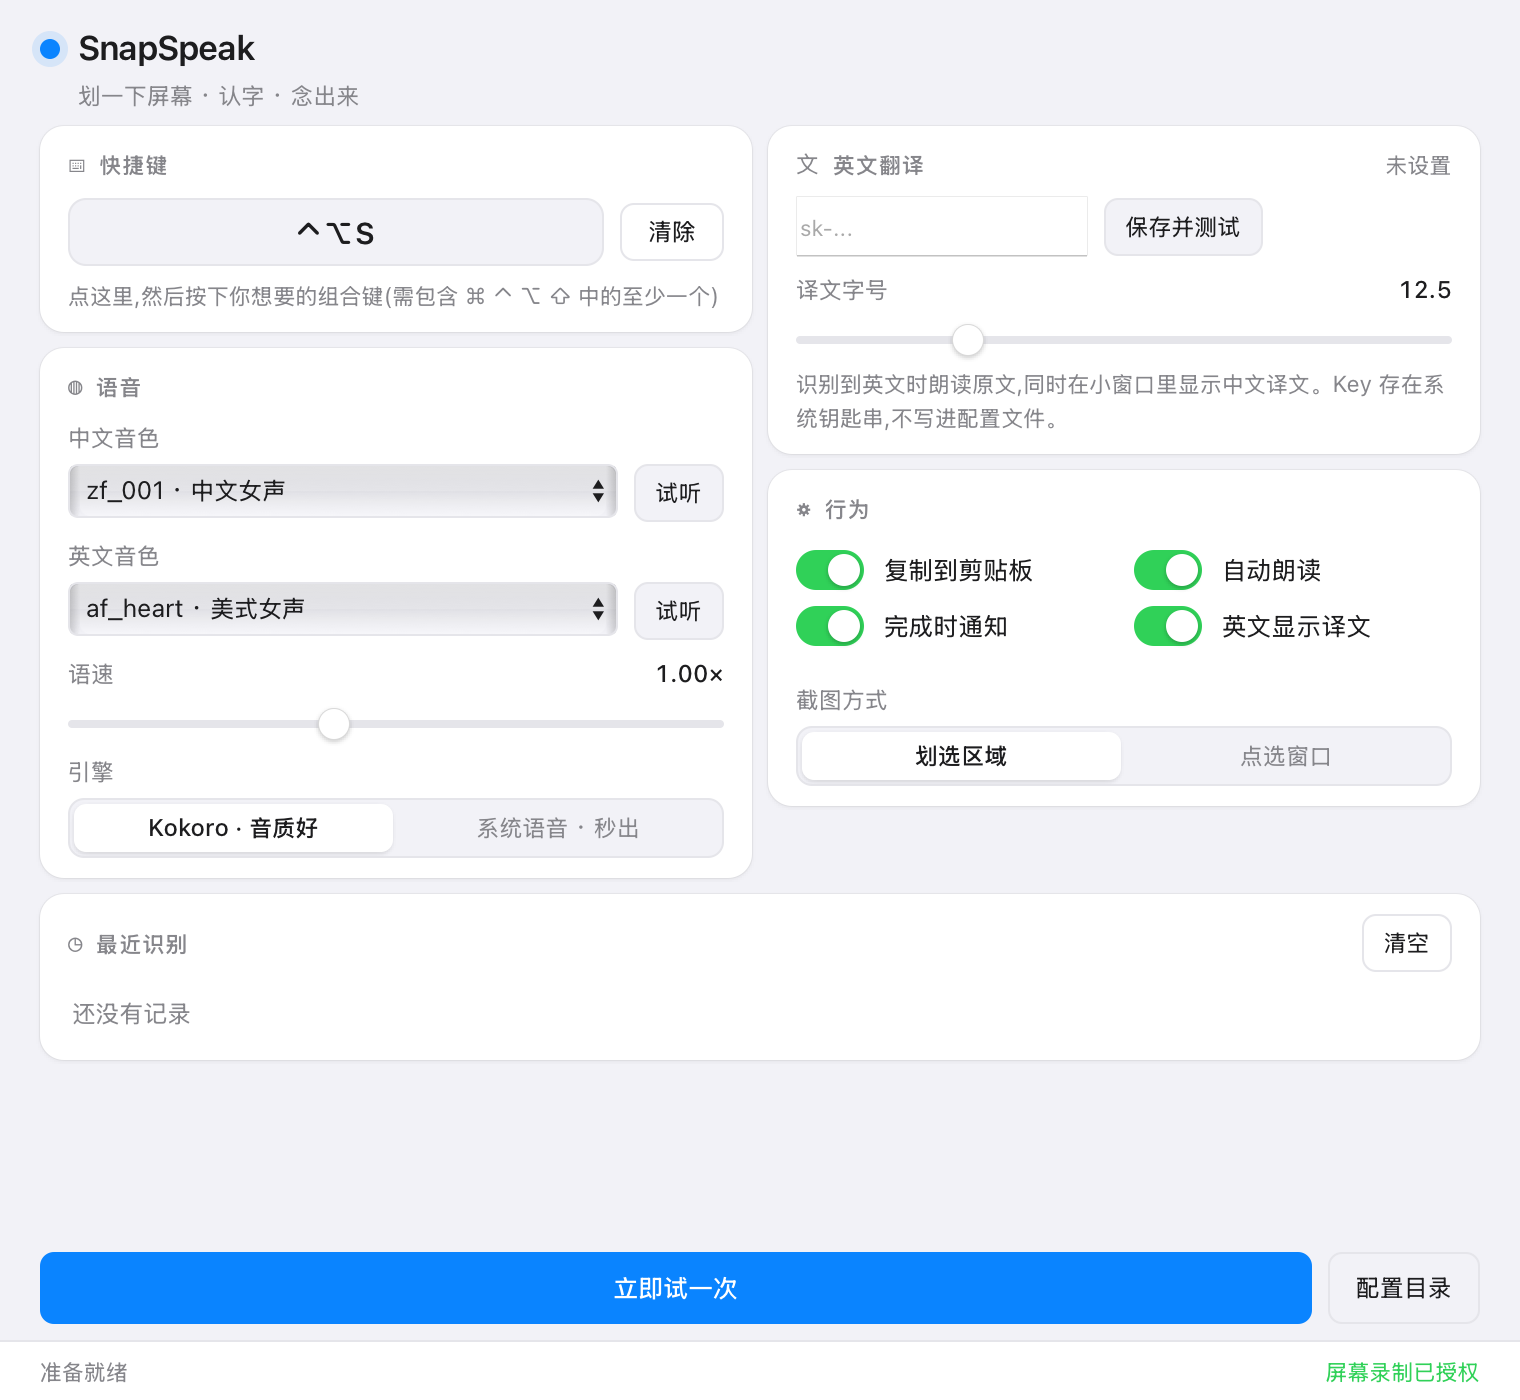
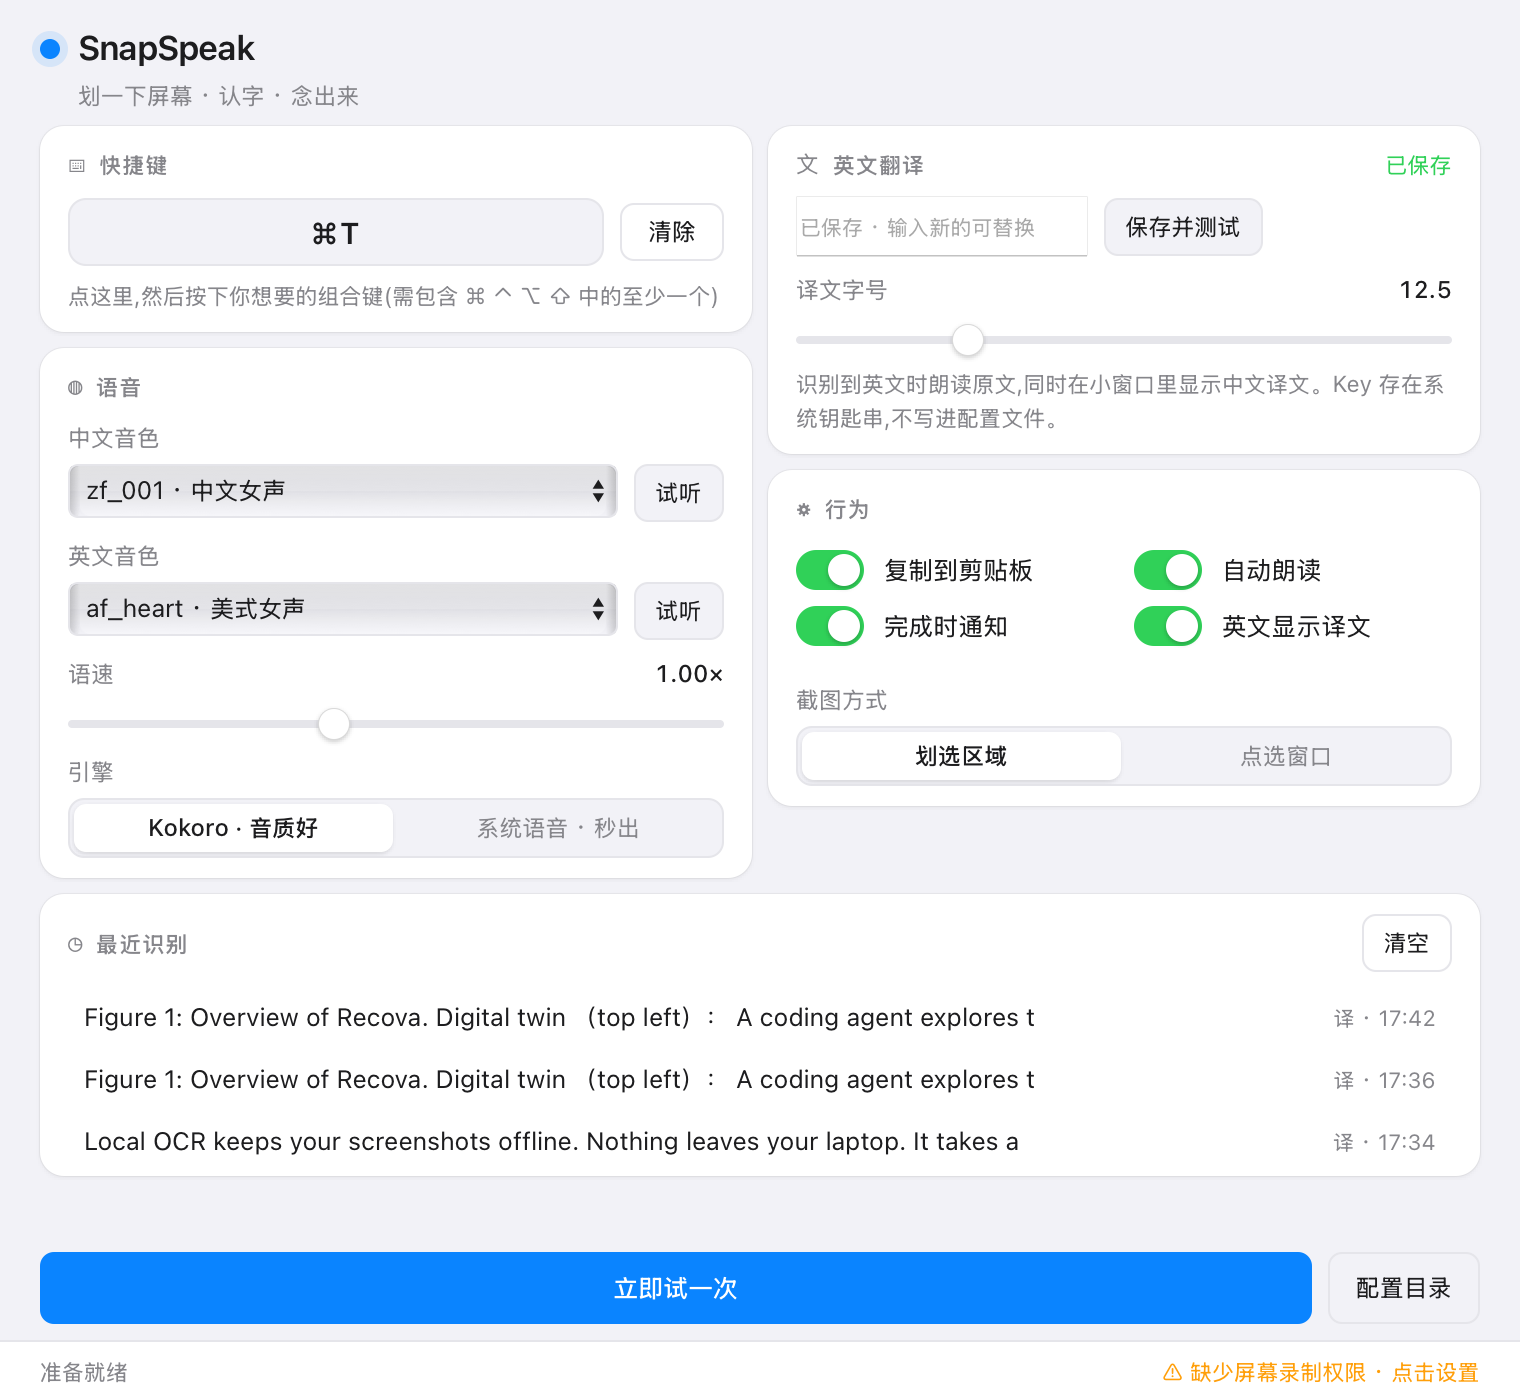
feat: 修复 π 等希腊字母,并支持自定义替换表
Vision 的 supportedRecognitionLanguages 里没有希腊语模型,
π 会被强行塞成拉丁字母,而且结果随字号而变:
    斜体 34px -> "no.5"      其他 -> "T0.5" / "to.5" / "70.5"
放大到 4x 无效,属于模型能力缺失。

好在 eSpeak 认识希腊字母(π -> "pi",α -> "alpha"),
只要把字符修回来,TTS 就能念对。

- textfix: 新增 repair_greek(),按「字母紧跟 .数字」这种上下文修
  T0.5 / to.5 / no.5 -> π0.5,TO( / no( -> π0(;
  "70.5" 这类纯数字与真实数值无法区分,不做处理
- 新增设置项 fix_greek(默认开)与界面开关
- 新增 text_replacements 自定义替换表,设置里一行一条 `原文=>替换`,
  用于内置规则覆盖不到的情况(如独立的 "no"、人名的 OCR 错字)
- 设置窗口加「识别修正」卡片,按实测内容高度重新定尺寸(760x790)

验证:内置规则 no.5->π0.5、T0.5->π0.5;
TO DO list / the T0 layer / I went to. Then 均不受影响;
自定义规则可把剩余的 "Unlike no," 修成 "Unlike π0,"。

diff --git a/ui/app.js b/ui/app.js
@@ -96,7 +96,29 @@ function render() {
   fillSelect(document.getElementById("voice_zh"), S.voices_zh || [], s.voice_zh);
   fillSelect(document.getElementById("voice_en"), S.voices_en || [], s.voice_en);
 
-  // 译文字号
+  // 自定义替换
+  const trEl = document.getElementById("text_replacements");
+  if (trEl && document.activeElement !== trEl) {
+    trEl.value = (s.text_replacements || [])
+      .map((p) => (p && p.length >= 2 ? `${p[0]}=>${p[1]}` : ""))
+      .filter(Boolean).join("\n");
+  }
+
+  // 自定义替换
+const trBox = document.getElementById("text_replacements");
+if (trBox) {
+  trBox.onchange = () => {
+    const pairs = trBox.value.split("\n").map((l) => l.trim()).filter(Boolean)
+      .map((l) => {
+        const i = l.indexOf("=>");
+        return i > 0 ? [l.slice(0, i).trim(), l.slice(i + 2).trim()] : null;
+      }).filter(Boolean);
+    trBox.value = pairs.map((p) => `${p[0]}=>${p[1]}`).join("\n");
+    save({ text_replacements: pairs });
+  };
+}
+
+// 译文字号
   const fs = document.getElementById("hud_font_size");
   if (fs) {
     fs.value = s.hud_font_size ?? 12.5;
@@ -125,6 +147,8 @@ function render() {
 
   // 开关
   document.getElementById("translate_en").checked = s.translate_en !== false;
+  const fg = document.getElementById("fix_greek");
+  if (fg) fg.checked = s.fix_greek !== false;
   document.getElementById("copy_to_clipboard").checked = !!s.copy_to_clipboard;
   document.getElementById("auto_play").checked = !!s.auto_play;
   document.getElementById("notify").checked = !!s.notify;
@@ -290,7 +314,7 @@ for (const id of ["engine", "capture_mode"]) {
 }
 
 // 开关
-for (const id of ["copy_to_clipboard", "auto_play", "notify", "translate_en"]) {
+for (const id of ["copy_to_clipboard", "auto_play", "notify", "translate_en", "fix_greek"]) {
   document.getElementById(id).onchange = (e) => save({ [id]: e.target.checked });
 }
 

diff --git a/ui/style.css b/ui/style.css
@@ -117,6 +117,17 @@ select {
   padding: 0 8px; font: inherit; font-size: 12.5px; cursor: pointer;
 }
 
+textarea {
+  width: 100%; height: 50px; resize: none;
+  border-radius: 7px; border: 1px solid var(--line);
+  background: var(--bg); color: var(--text);
+  padding: 6px 8px; font: inherit; font-size: 12px; line-height: 1.4;
+  font-family: ui-monospace, "SF Mono", Menlo, monospace;
+  outline: none; user-select: text;
+}
+textarea:focus { border-color: var(--accent); }
+textarea::placeholder { color: var(--muted); font-family: inherit; }
+
 .field input[type=password] {
   flex: 1; height: 27px; border-radius: 7px;
   border: 1px solid var(--line); background: var(--bg); color: var(--text);
@@ -206,7 +217,7 @@ input[type=range]::-webkit-slider-thumb {
 .actionsbar .primary { flex: 1; height: 36px; }
 .actionsbar .ghost { height: 36px; }
 
-.history { display: flex; flex-direction: column; gap: 1px; max-height: 84px; overflow-y: auto; }
+.history { display: flex; flex-direction: column; gap: 1px; max-height: 60px; overflow-y: auto; }
 .history::-webkit-scrollbar { width: 0; }
 .history .item {
   display: flex; align-items: center; gap: 8px;

diff --git a/ui/index.html b/ui/index.html
@@ -98,6 +98,7 @@
         <label class="toggle"><input type="checkbox" id="auto_play"><span>自动朗读</span></label>
         <label class="toggle"><input type="checkbox" id="notify"><span>完成时通知</span></label>
         <label class="toggle"><input type="checkbox" id="translate_en"><span>英文显示译文</span></label>
+        <label class="toggle"><input type="checkbox" id="fix_greek"><span>修正 π 符号</span></label>
       </div>
 
       <div class="field" style="margin-top:14px">
@@ -111,6 +112,14 @@
 
     </div>
    </div>
+
+    <!-- 识别修正 -->
+    <section class="card">
+      <div class="card-head"><span class="ico">✎</span><h2>识别修正</h2></div>
+      <textarea id="text_replacements" rows="2" spellcheck="false"
+        placeholder="no.5=>π0.5&#10;thcir=>their"></textarea>
+      <p class="hint">一行一条,格式 <b>原文=&gt;替换</b>。OCR 认错的符号、人名都可以在这里兜底。</p>
+    </section>
 
     <!-- 最近 -->
     <section class="card">

diff --git a/textfix.py b/textfix.py
@@ -104,10 +104,54 @@ def _merge_hyphen(prev: str, nxt: str) -> str:
     return head + nxt                              # 保底:去掉连字符
 
 
-def clean_ocr_text(text: str) -> str:
+# ---------------------------------------------------------------- 希腊字母
+# Vision 没有希腊语模型(supportedRecognitionLanguages 里没有 el-GR),
+# π 一类符号会被强行塞成拉丁字符。实测:
+#     π0.5   -> "T0.5" / "to.5"
+#     π0     -> "TO"
+# 下面只挑「上下文足够明确」的模式修,避免误伤正常英文:
+# 字母紧跟 ".数字" 在英文里几乎不存在,所以这条是安全的。
+# 注意:Vision 有时给出的是 "70.5"(数字零),和真实的 70.5 无法区分,不做处理。
+GREEK_RULES = (
+    (re.compile(r"\b[Tt]0\.(\d)"), "π0.\\1"),      # T0.5  -> π0.5
+    (re.compile(r"\b[Tt][Oo]\.(\d)"), "π0.\\1"),   # to.5  -> π0.5
+    (re.compile(r"\b[Nn][Oo]\.(\d)"), "π0.\\1"),   # no.5  -> π0.5
+    (re.compile(r"\b[Tt][Oo]\b(?=\s*[（(])"), "π0"),  # TO(   -> π0(
+    (re.compile(r"\b[Nn][Oo]\b(?=\s*[（(])"), "π0"),  # no(   -> π0(
+)
+
+
+def repair_greek(text: str) -> str:
+    """把被认成拉丁字母的 π 修回来(π 在 espeak 里能正确读作 "pi")。"""
+    if not text:
+        return text
+    for pattern, repl in GREEK_RULES:
+        text = pattern.sub(repl, text)
+    return text
+
+
+def apply_literal(text: str, pairs) -> str:
+    """用户自定义的字面替换,按顺序执行。pairs 是 [(from, to), ...]。"""
+    if not text or not pairs:
+        return text
+    for item in pairs:
+        try:
+            a, b = item[0], item[1]
+        except (TypeError, IndexError, KeyError):
+            continue
+        if a:
+            text = text.replace(str(a), str(b))
+    return text
+
+
+def clean_ocr_text(text: str, fix_greek: bool = True,
+                   replacements=()) -> str:
     """把 OCR 出来的多行文本整理成通顺的段落。"""
     if not text or "\n" not in text:
-        return WS.sub(" ", text) if text else text
+        one = WS.sub(" ", text) if text else text
+        if fix_greek:
+            one = repair_greek(one)
+        return apply_literal(one, replacements)
 
     lines = text.split("\n")
     out: list[str] = []
@@ -136,4 +180,7 @@ def clean_ocr_text(text: str) -> str:
 
         out[-1] = prev + _sep(prev, nxt) + nxt     # 同一段内的硬换行
 
-    return WS.sub(" ", "\n".join(out))
+    result = WS.sub(" ", "\n".join(out))
+    if fix_greek:
+        result = repair_greek(result)
+    return apply_literal(result, replacements)

diff --git a/core.py b/core.py
@@ -43,6 +43,8 @@ DEFAULTS = {
     "auto_play": True,
     "capture_mode": "region",    # region | window
     "translate_en": True,        # 英文时显示中文译文(朗读仍是英文)
+    "fix_greek": True,           # 修复被认成拉丁字母的 π 等符号
+    "text_replacements": [],     # 自定义字面替换 [["原","新"], ...]
     "pin_translation": False,    # 译窗是否常驻
     "hud_pos": None,             # 悬浮面板位置 {x,y}
     "hud_size": None,            # 用户手动缩放过的大小 {w,h}
@@ -223,7 +225,10 @@ def run(settings: dict | None = None, source: str | None = None,
         if not rows:
             return {"ok": False, "error": "没识别到文字", "cancelled": False}
         # 把 OCR 的硬换行接回句子,并去掉行尾断词连字符
-        source_text = textfix.clean_ocr_text("\n".join(r[0] for r in rows))
+        source_text = textfix.clean_ocr_text(
+            "\n".join(r[0] for r in rows),
+            fix_greek=cfg.get("fix_greek", True),
+            replacements=cfg.get("text_replacements") or ())
         lang = guess_lang(source_text)
         t_ocr = time.time() - t0
 

diff --git a/snap.py b/snap.py
@@ -172,7 +172,8 @@ def main():
             notify("没识别到文字")
             return 1
 
-        text = textfix.clean_ocr_text("\n".join(r[0] for r in rows))
+        text = textfix.clean_ocr_text("\n".join(r[0] for r in rows),
+                                      fix_greek=True)
         lang = args.lang or guess_lang(text)
 
         # ---- 3. 输出 + 复制 ----

diff --git a/app.py b/app.py
@@ -317,7 +317,7 @@ class AppDelegate(AppKit.NSObject):
 
     @python_method
     def _build_window(self):
-        rect = AppKit.NSMakeRect(0, 0, 760, 700)
+        rect = AppKit.NSMakeRect(0, 0, 760, 790)
         mask = (AppKit.NSWindowStyleMaskTitled
                 | AppKit.NSWindowStyleMaskClosable
                 | AppKit.NSWindowStyleMaskMiniaturizable)

diff --git a/README.md b/README.md
@@ -49,6 +49,8 @@
 | **103 个中文音色 / 54 个英文音色** | 每个都能「试听」,不用盲猜编号 |
 | **中英混读** | 中文里夹的 `ChatGPT`、`GPU` 这类词也能念出来 |
 | **跨行断词修复** | 论文截图里的 `con-` / `trol` 会接回 `control`;`test-time` 这种真连字符则保留 |
+| **符号修正** | `π0.5` 常被认成 `no.5` / `T0.5`,内置规则修回;还可以自己加替换表 |
+| **自定义替换** | 设置里一行一条 `原文=>替换`,OCR 认错的符号、人名都能兜底 |
 | **悬浮播放条** | 暂停、拖进度、钉住、拖动、缩放、调字号 —— 而且浮在所有窗口之上 |
 | **英文 → 中文译文**(可选) | 朗读英文原文,另起一个小窗显示中文译文。直接用 [DeepSeek](https://platform.deepseek.com/) API |
 | **菜单栏常驻** | 不进 Dock,不抢焦点,模型常驻内存 |
@@ -152,6 +154,26 @@ open ~/Applications/SnapSpeak.app
 - 剪贴板里放的是**译文**
 - Key 存进 **macOS 钥匙串**,不写进任何配置文件
 - 没填 Key 或翻译失败 → 只念英文,不影响主流程
+
+### 符号修正(π 这一类)
+
+macOS 的 Vision **没有希腊语模型**(`supportedRecognitionLanguages` 里没有 `el-GR`),
+所以 `π0.5` 会被强行塞成拉丁字母,而且结果不稳定 ——
+同一段文字换个字号可能变成 `no.5`、`to.5` 或 `T0.5`。放大到 4x 也无效。
+
+好在 eSpeak 认识希腊字母(`π` → "pi"、`α` → "alpha"),
+所以只要把字符修回来,TTS 就能念对。这里做了两层:
+
+1. **内置规则**(默认开,设置里可关):只修「字母紧跟 `.数字`」这种上下文,
+   因为这种写法在英文里几乎不存在,基本不会误伤正文
+2. **自定义替换表**:设置 → 识别修正,一行一条 `原文=>替换`,例如
+
+   ```
+   no.5=>π0.5
+   thcir=>their
+   ```
+
+内置规则覆盖不到的情况(比如独立出现的 `no`、被认错的人名)用第二层兜底。
 
 ### 命令行
 
@@ -301,7 +323,12 @@ Apple M4 / 10 核 / 16 GB / macOS 15:
 可能晚一帧才绘制。在 `render()` 末尾加一句 `void document.body.offsetHeight`
 强制一次样式计算即可。
 
-**7. 这台机器的 Swift 工具链编不了东西**
+**7. Vision 没有希腊语模型**
+
+详见上面「符号修正」一节。要点是:这是模型能力缺失,不是分辨率问题;
+放大、换语言都救不回来,只能靠后处理把字修回去。
+
+**8. 这台机器的 Swift 工具链编不了东西**
 
 只装了 Command Line Tools 且 `SwiftBridging` 的 modulemap 有重复定义,
 `swiftc` 直接报错。于是 OCR 改用 PyObjC 调同一个 Vision API。
